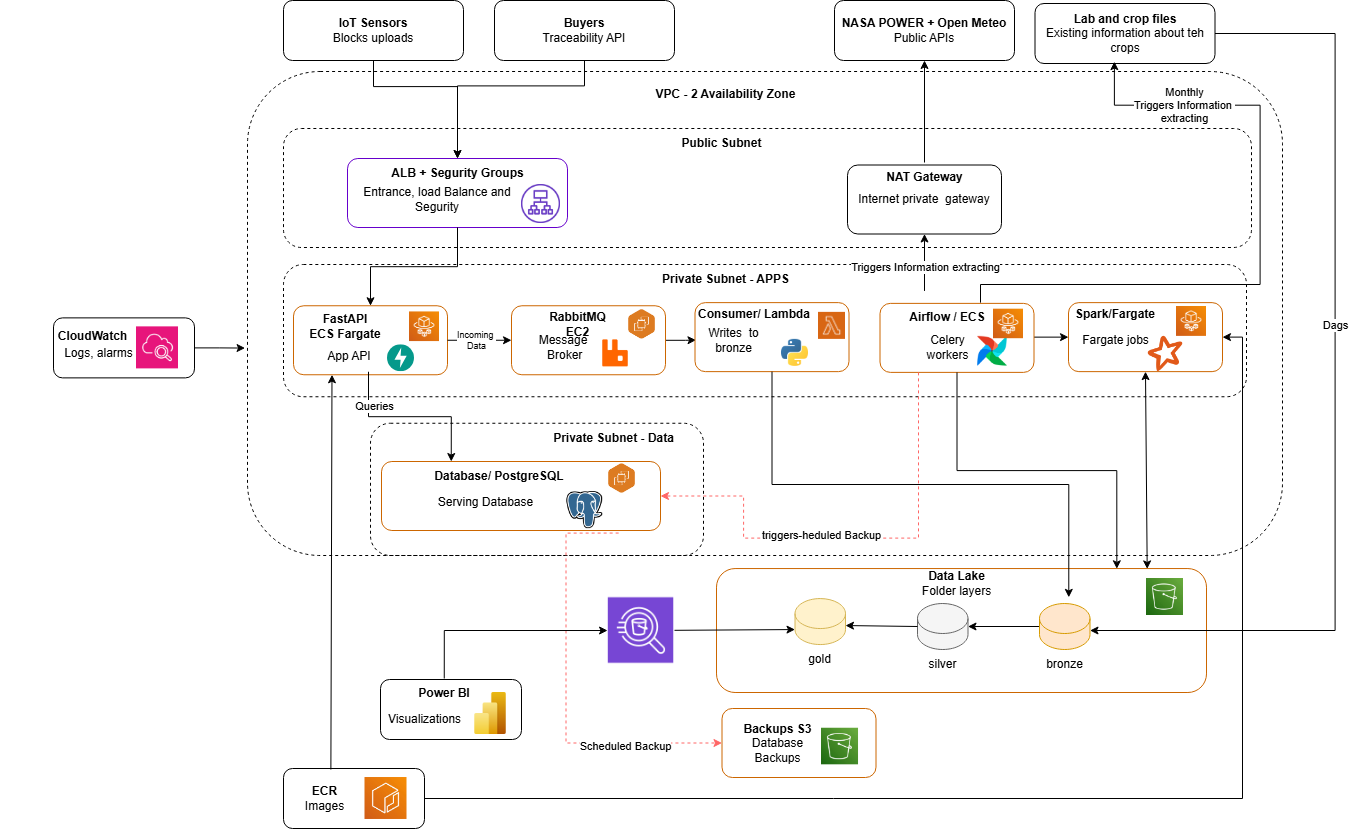
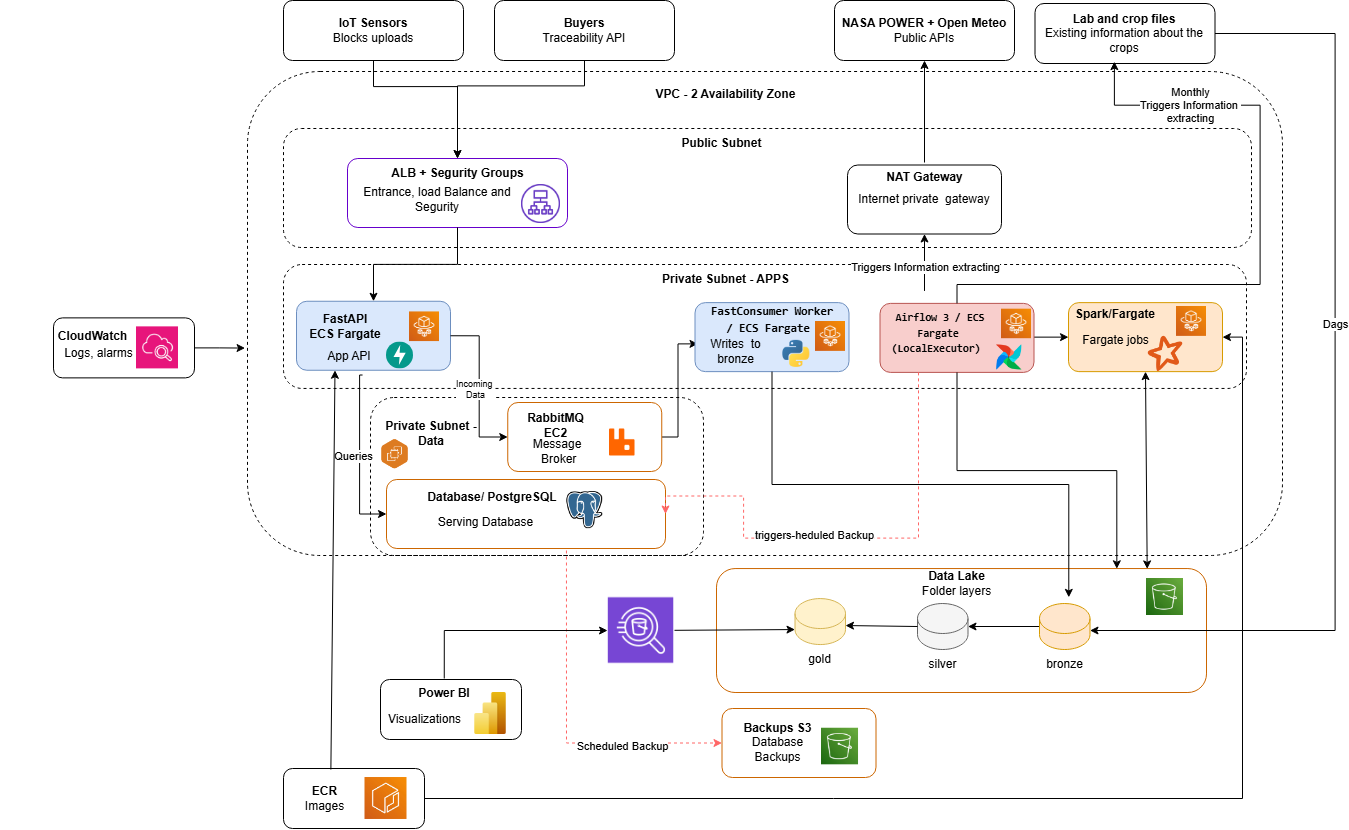
docs: update architecture diagram and remove Lambda references in favor of ECS FastConsumer

diff --git a/docs/deliverables/us01-technical-research-architecture-cost-estimation.md b/docs/deliverables/us01-technical-research-architecture-cost-estimation.md
@@ -150,7 +150,7 @@ statement.
 | RabbitMQ                       | Amazon EC2 (t3.small)                 | IoT telemetry buffer (F4, RF-01, RNF-01)                   | 1 t3.small instance, 20 GB EBS                |
 | Apache Airflow (Optimized)     | AWS ECS Fargate (1 task LocalExecutor)| Satellite weather ETL & alert orchestrator (RF-02, RNF-05) | 1 task (0.5 vCPU, 2GB RAM) / Scheduled RunTask|
 | Apache PySpark                 | AWS ECS Fargate (On-Demand)           | Batch ETL, rust/drought windows (RF-03, RN-03..RN-07)      | 1 task, 2 vCPU, 16 GB RAM (1 hr/day)          |
-| AWS Lambda                     | Serverless Compute                    | IoT message consumer writing raw JSON to S3 Bronze         | 4,000,000 requests/month (512 MB)             |
+| FastConsumer Worker (AGRO-16)  | AWS ECS Fargate (Co-located/Worker)   | IoT RabbitMQ consumer writing raw Parquet to S3 Medallion   | Ingestion tasks (0.5 vCPU, 1 GB RAM / co-located) |
 | Amazon S3                      | Data Lake & Backups                   | Bronze/Silver/Gold Parquet Data Lake & DB Backups          | 50 GB Data Lake + 30 GB Backups Standard      |
 | App Load Balancer              | AWS ALB                               | Public ingress, TLS termination & health checks            | 1 ALB, 3 Public IPv4s, 1 NAT Gateway          |
 | Amazon ECR                     | Private Container Registry            | Private Docker image repository with lifecycle policies    | 3 GB image storage (10 versions)              |
@@ -175,7 +175,7 @@ estimate was generated using the official AWS Pricing Calculator
 | Apache Airflow (Fargate Opt.) | 1 task (LocalExecutor, 0.5vCPU, 2GB)   | \$6.00                   | \$18.00                   | \$216.00        |
 | Apache PySpark (Fargate)      | 1 task/day, 1 hr, 16 GB RAM            | \$2.36                   | \$7.09                    | \$85.08         |
 | RabbitMQ (Amazon EC2)         | 1 t3.small instance, 20 GB EBS         | \$6.80                   | \$16.78                   | \$201.41        |
-| AWS Lambda                    | 4M invocations/mo, 512 MB RAM          | \$0.20                   | \$0.60                    | \$7.20          |
+| FastConsumer Worker (AGRO-16) | Co-located in API Fargate Task / 0.5 vCPU | Included in API          | Included in API           | $0.00           |
 | PostgreSQL + PostGIS (EC2)    | 1 t4g.small / t3.small, 30 GB gp3 EBS  | \$8.10                   | \$14.20                   | \$170.40        |
 | Data Lake (S3 Standard)       | 50 GB storage, 100k GET/PUTs           | \$0.85                   | \$1.69                    | \$20.28         |
 | S3 Database Backups           | 30 GB storage Standard                 | \$0.35                   | \$0.69                    | \$8.28          |

diff --git a/docs/architecture-and-design/data_structure.md b/docs/architecture-and-design/data_structure.md
@@ -334,7 +334,7 @@ These datasets reside in Amazon S3 partitioned by date (`year=YYYY/month=MM/day=
 
 ### Module 2.1: Bronze Layer (Raw Immutable Ingestion — JSON / CSV)
 
-#### 25. Dataset: `s3://.../bronze/iot_telemetry/` (Source F4 — JSON via RabbitMQ & Lambda)
+#### 25. Dataset: `s3://.../bronze/iot_telemetry/` (Source F4 — JSON/Parquet via RabbitMQ & ECS FastConsumer Worker)
 
 * **Columns:** `message_id` (STRING), `batch_upload_id` (STRING), `sensor_id` (STRING), `farm_id` (STRING), `device_timestamp_raw` (STRING), `server_ingestion_ts` (TIMESTAMP), `sensor_type` (STRING), `raw_value` (DOUBLE), `raw_unit` (STRING), `battery_pct` (DOUBLE).
 
